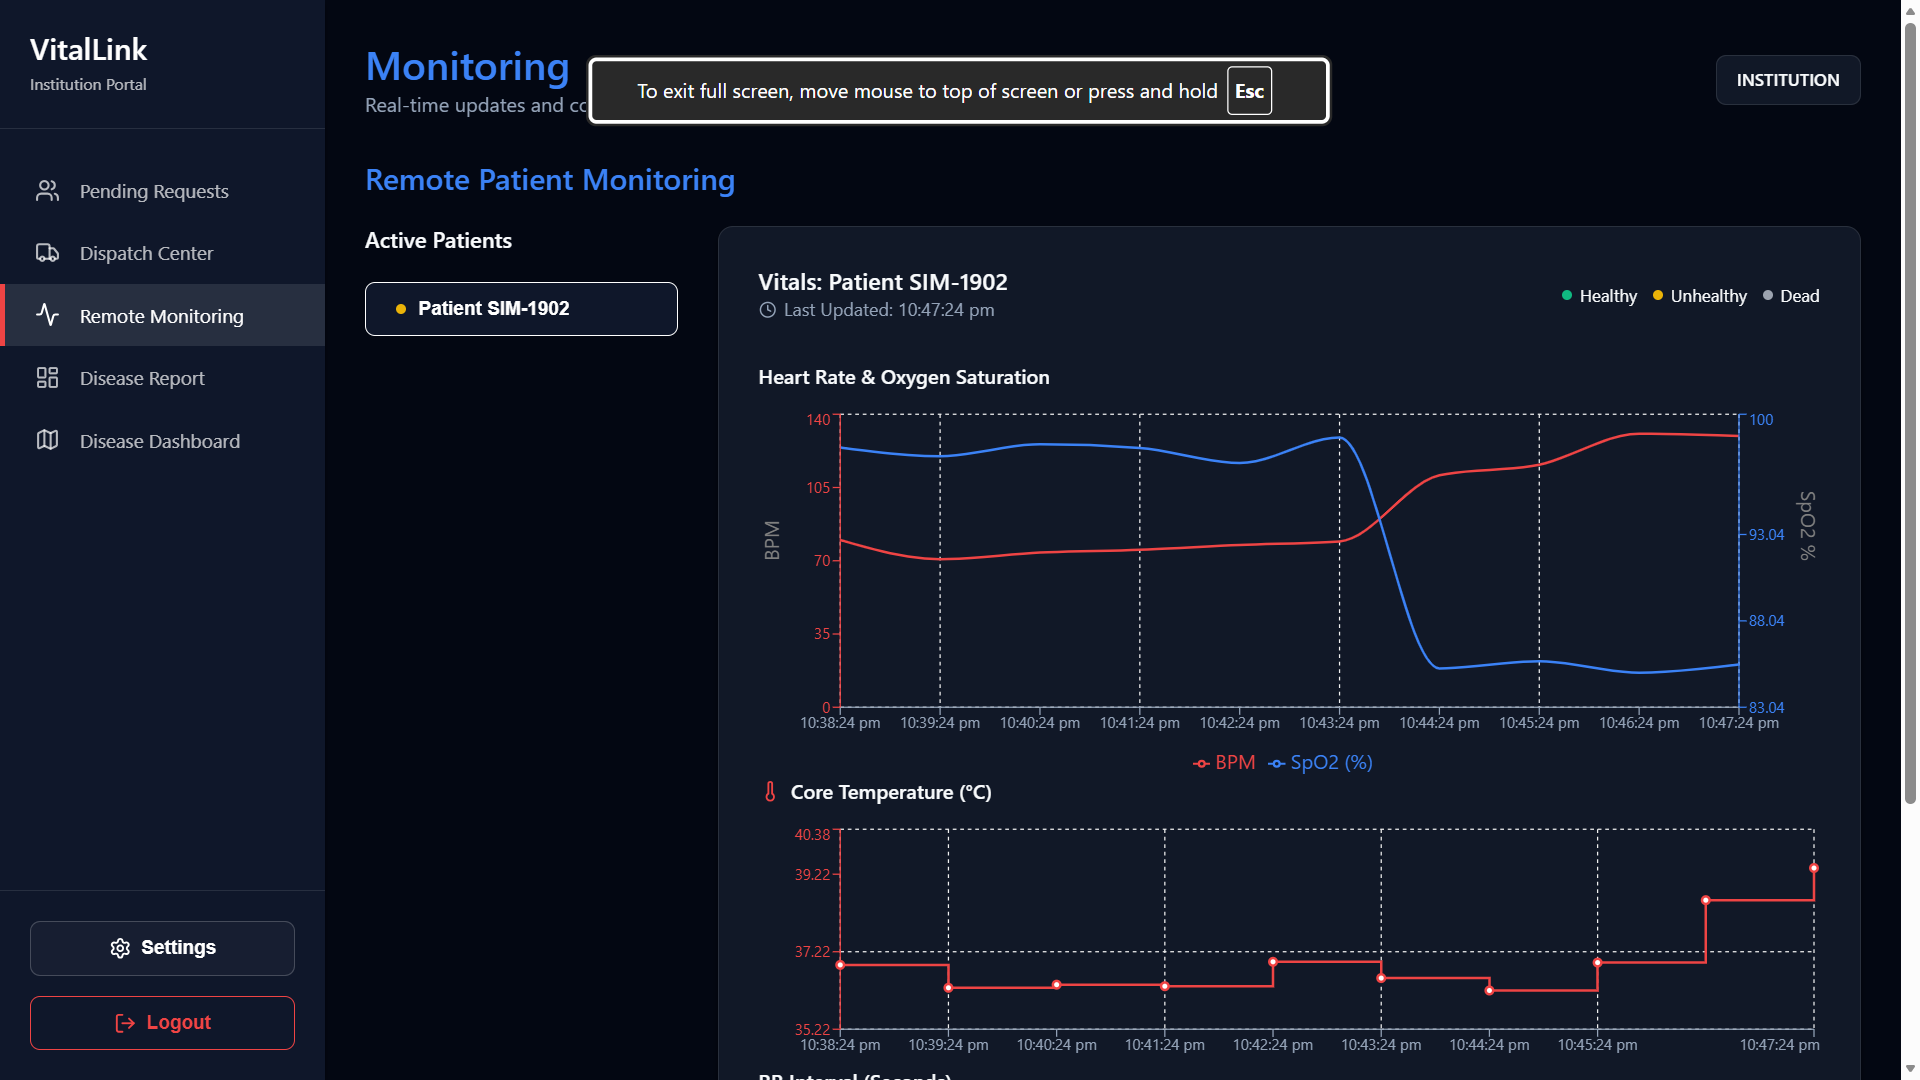
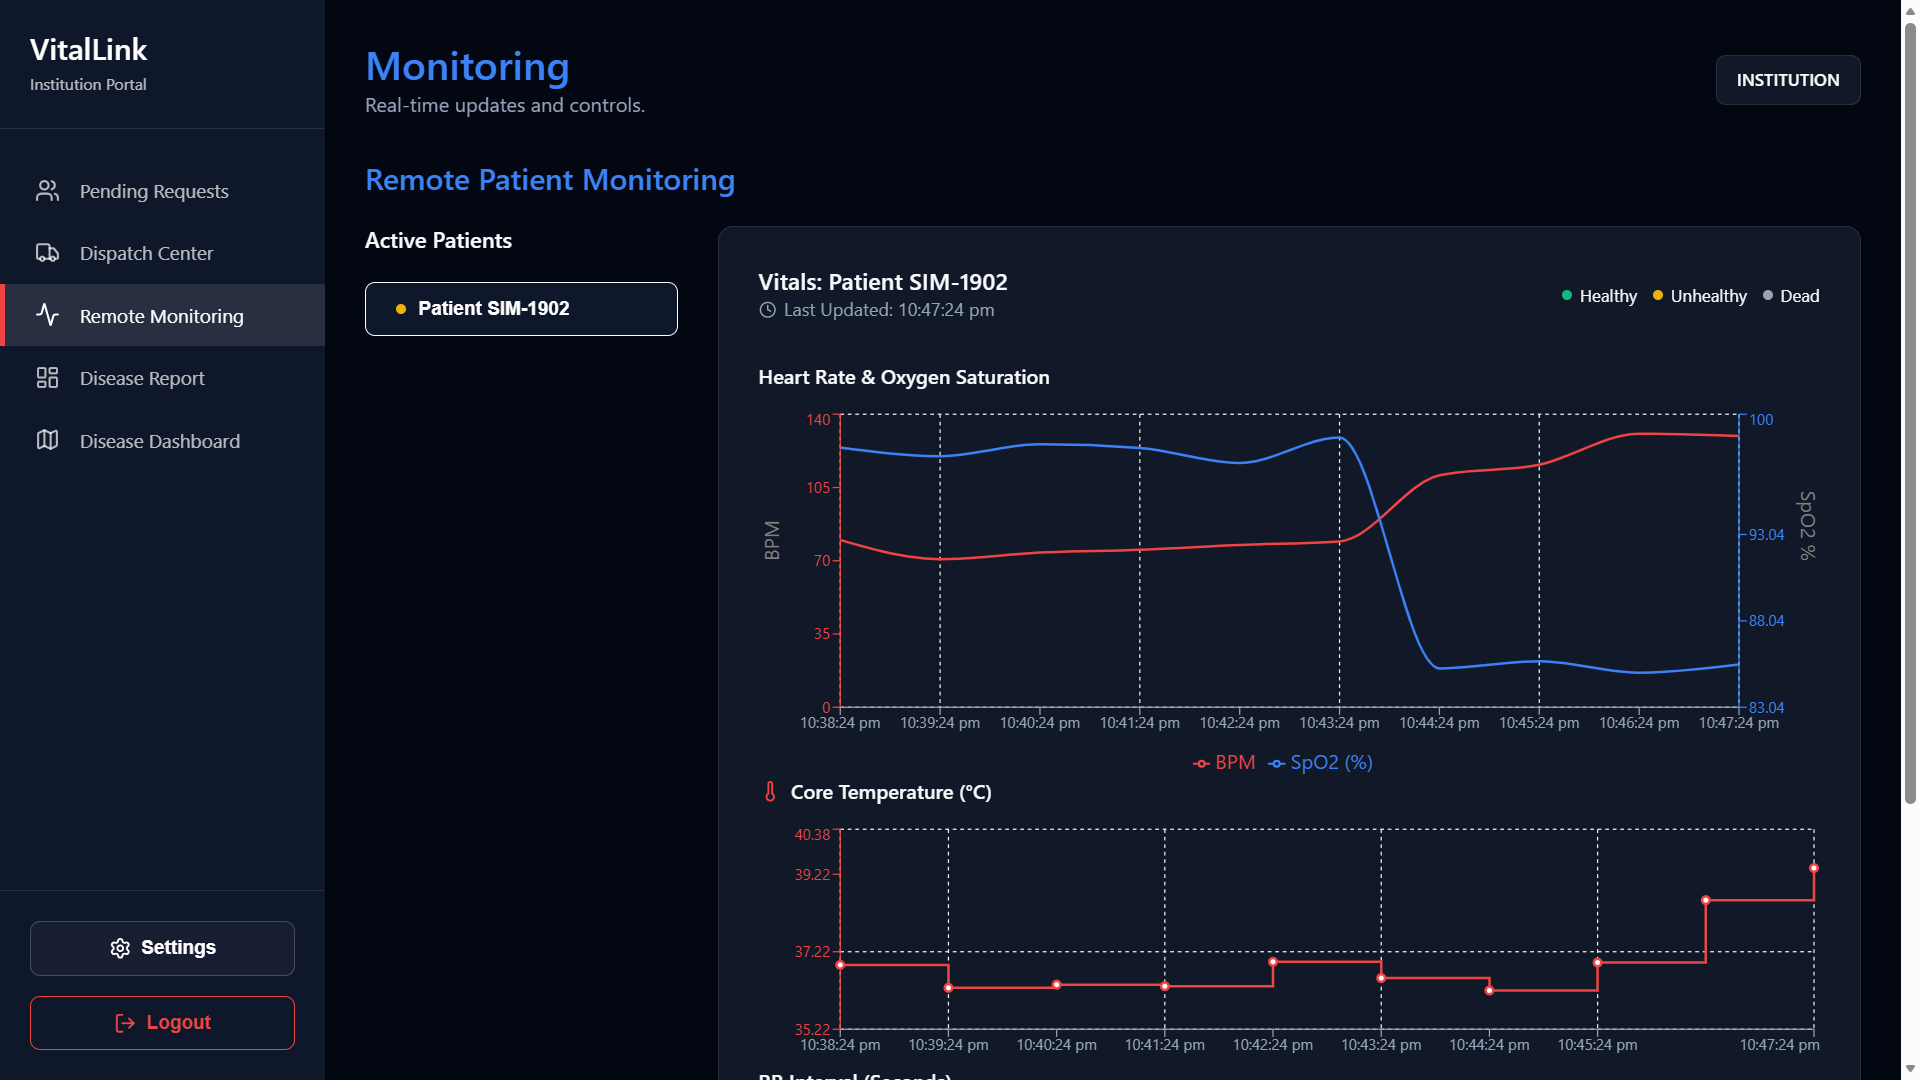
addded fullscreen

Changed region(s): [[0.2812, 0.0306, 0.7188, 0.1222]]

diff --git a/js/main.js b/js/main.js
@@ -350,7 +350,7 @@ document.addEventListener('DOMContentLoaded', () => {
             const htmlContent = marked.parse(mdText);
             
             content.innerHTML = `
-                <img src="portfolio/${project}/main.png" class="portfolio-image" alt="${project} image" onerror="this.style.display='none'">
+                <img src="portfolio/${project}/main.png" class="portfolio-image" alt="${project} image" onerror="this.style.display='none'" oncontextmenu="openFullscreenImage(event, this.src)">
                 <div class="portfolio-markdown">${htmlContent}</div>
                 <div class="portfolio-controls">
                     <button class="portfolio-btn" onclick="initPortfolio()">Back</button>
@@ -366,6 +366,40 @@ document.addEventListener('DOMContentLoaded', () => {
                 </div>
             `;
         }
+    };
+
+    let currentFullscreenSrc = '';
+
+    window.openFullscreenImage = function(e, src) {
+        e.preventDefault();
+        currentFullscreenSrc = src;
+        const menu = document.getElementById('custom-context-menu');
+        menu.style.display = 'block';
+        menu.style.left = e.pageX + 'px';
+        menu.style.top = e.pageY + 'px';
+    };
+
+    window.triggerFullscreen = function() {
+        const menu = document.getElementById('custom-context-menu');
+        menu.style.display = 'none';
+        if(currentFullscreenSrc) {
+            const overlay = document.getElementById('fullscreen-overlay');
+            const img = document.getElementById('fullscreen-image');
+            img.src = currentFullscreenSrc;
+            overlay.style.display = 'flex';
+        }
+    };
+
+    document.addEventListener('click', function(e) {
+        const menu = document.getElementById('custom-context-menu');
+        if (menu && menu.style.display === 'block') {
+            menu.style.display = 'none';
+        }
+    });
+
+    window.closeFullscreenImage = function() {
+        const overlay = document.getElementById('fullscreen-overlay');
+        overlay.style.display = 'none';
     };
 
     window.viewProjectImages = async function(project) {
@@ -396,7 +430,7 @@ document.addEventListener('DOMContentLoaded', () => {
             gridHtml += '<p>No additional images found.</p>';
         } else {
             loadedImages.forEach(url => {
-                gridHtml += `<img src="${url}" alt="Gallery Image" loading="lazy">`;
+                gridHtml += `<img src="${url}" alt="Gallery Image" loading="lazy" oncontextmenu="openFullscreenImage(event, this.src)">`;
             });
         }
         gridHtml += '</div>';

diff --git a/index.html b/index.html
@@ -4,8 +4,8 @@
     <meta charset="UTF-8" />
     <meta name="viewport" content="width=device-width, initial-scale=1" />
     <title>Welcome Page</title>
-    <link href="css/style.css" rel="stylesheet" />
-    <script src="js/main.js" defer></script>
+    <link href="css/style.css?v=2" rel="stylesheet" />
+    <script src="js/main.js?v=2" defer></script>
     <script src="https://cdn.jsdelivr.net/npm/marked/marked.min.js"></script>
   </head>
   <body>
@@ -63,6 +63,15 @@
           <!-- Content dynamically injected here (Grid or Details) -->
         </div>
       </div>
+    </div>
+    <div id="fullscreen-overlay" class="fullscreen-overlay">
+      <div style="position: absolute; top: 20px; left: 20px; z-index: 2001;">
+        <button class="portfolio-btn" onclick="closeFullscreenImage()">Back</button>
+      </div>
+      <img id="fullscreen-image" src="" alt="Fullscreen view">
+    </div>
+    <div id="custom-context-menu" class="custom-context-menu">
+        <div class="context-menu-item" onclick="triggerFullscreen()">Full Screen</div>
     </div>
   </body>
 </html>

diff --git a/css/style.css b/css/style.css
@@ -350,6 +350,51 @@ pre {
   border: 1px solid #444;
 }
 
+.fullscreen-overlay {
+  display: none;
+  position: fixed;
+  top: 0;
+  left: 0;
+  width: 100vw;
+  height: 100vh;
+  background-color: rgba(0, 0, 0, 0.9);
+  z-index: 2000;
+  justify-content: center;
+  align-items: center;
+}
+
+.fullscreen-overlay img {
+  max-width: 90vw;
+  max-height: 90vh;
+  object-fit: contain;
+  border-radius: 8px;
+  box-shadow: 0 10px 40px rgba(0,0,0,0.8);
+}
+
+.custom-context-menu {
+  display: none;
+  position: absolute;
+  background-color: #242424;
+  border: 1px solid #444;
+  border-radius: 4px;
+  box-shadow: 0 4px 12px rgba(0,0,0,0.5);
+  z-index: 3000;
+  padding: 5px 0;
+  min-width: 150px;
+}
+
+.context-menu-item {
+  padding: 10px 20px;
+  color: #e0e0e0;
+  cursor: pointer;
+  font-family: inherit;
+  font-size: 14px;
+}
+
+.context-menu-item:hover {
+  background-color: #444;
+}
+
 /* Responsive text wrapping for small screens */
 @media screen and (max-width: 768px) {
   .typing-container {
